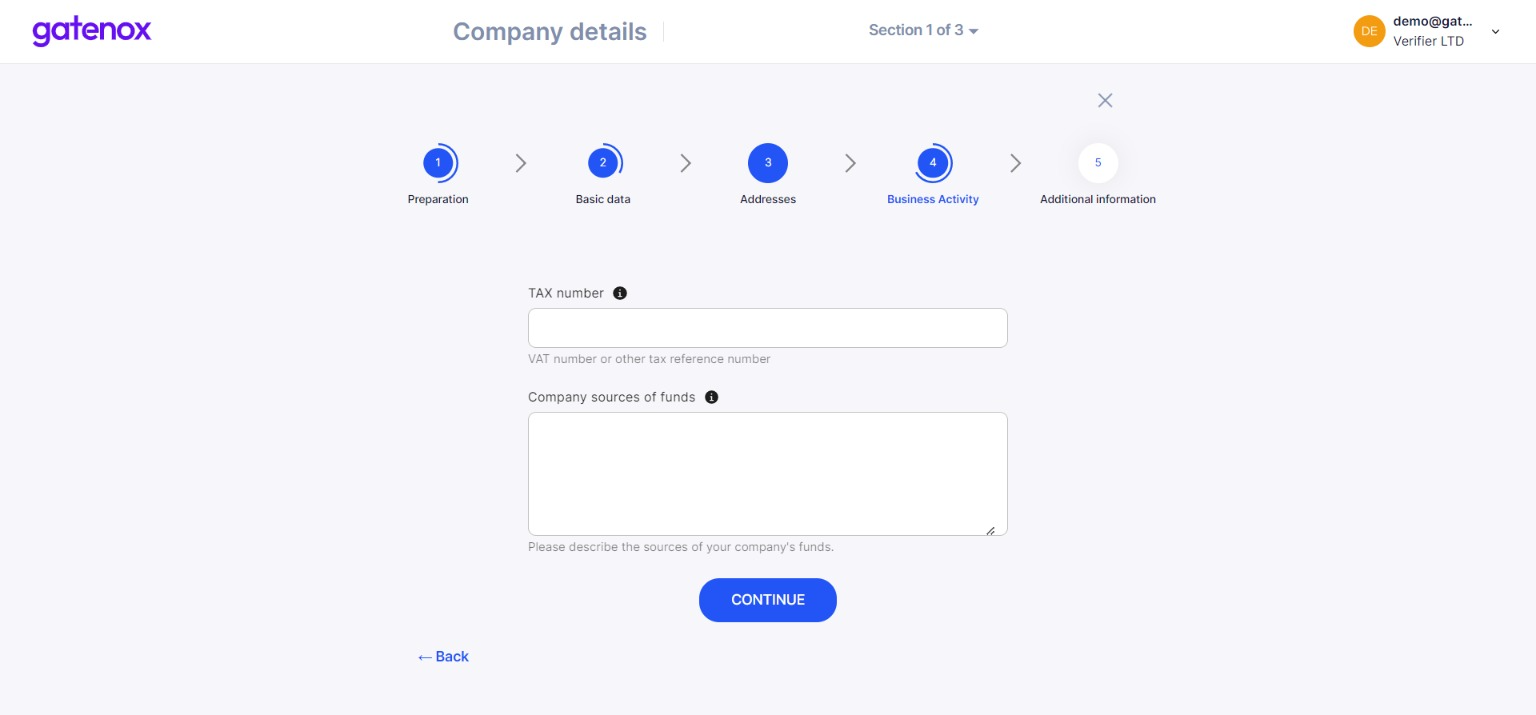
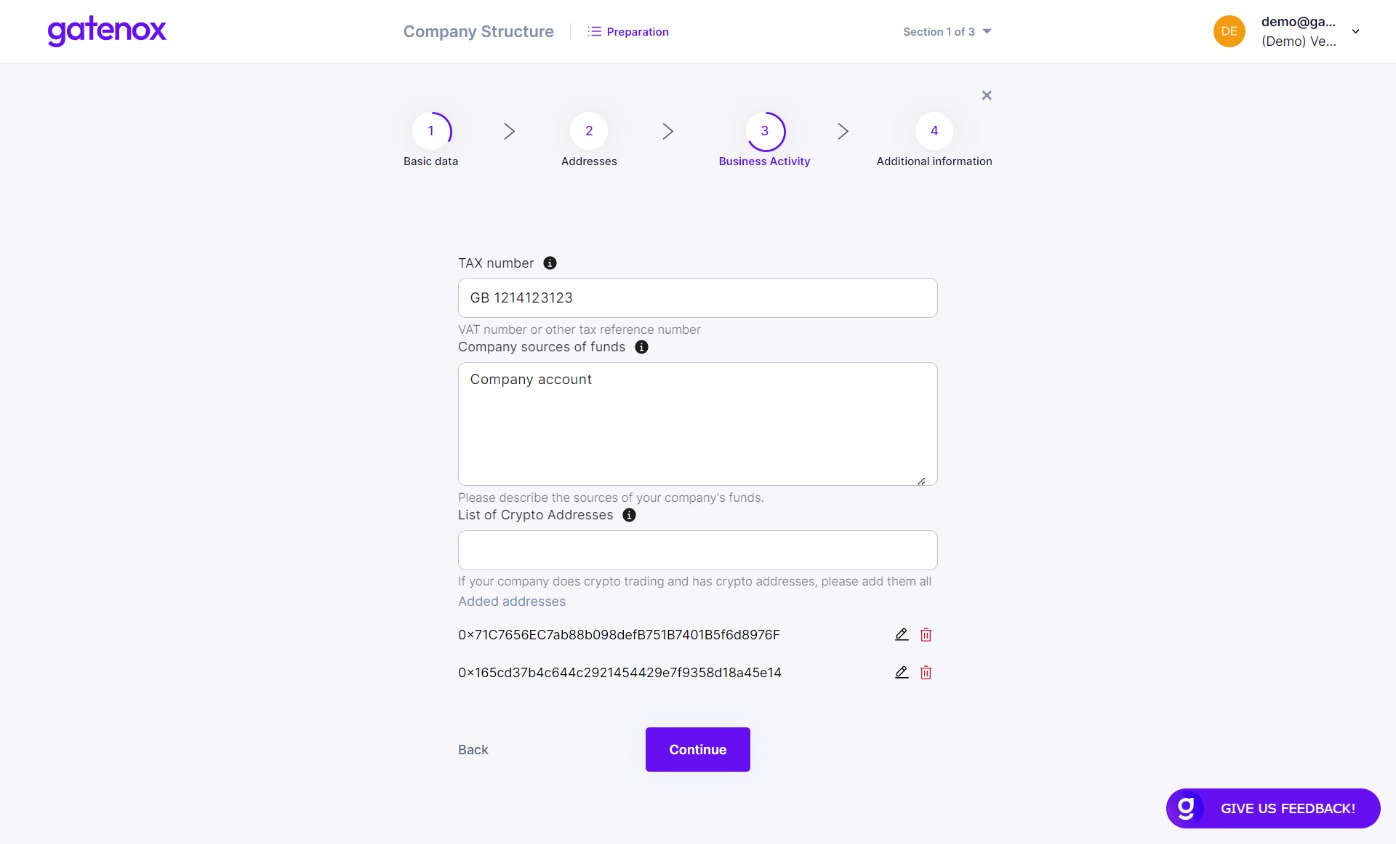
GitBook: [#66] Add crypto addresses

diff --git a/gatenox-guide/verifier-journey/review-details.md b/gatenox-guide/verifier-journey/review-details.md
@@ -15,15 +15,15 @@ Each application is divided into 6 main parts:
 
 Before the mentioned sections are displayed, a summary of any identified potential issues will appear at the top of the page e.g. presence of company entities or individuals on sanction, PEP or criminal lists in **a red section**.
 
-<figure><img src="../../docs/Images/review_issues.png" alt="Review - found issues"><figcaption><p>Review - found issues</p></figcaption></figure>
+<figure><img src="../../.gitbook/assets/review_issues.png" alt="Review - found issues"><figcaption><p>Review - found issues</p></figcaption></figure>
 
 If no potential issues are found, a green section will be displayed at the top of the page.
 
-<figure><img src="../../docs/Images/review_issues2.png" alt="Review - found issues"><figcaption><p>Review - no issues</p></figcaption></figure>
+<figure><img src="../../.gitbook/assets/review_issues2.png" alt="Review - found issues"><figcaption><p>Review - no issues</p></figcaption></figure>
 
 In addition, you can view the whole structure of the company in the form of a **fully interactive graph** (it is possible to open the graph in a new browser tab).
 
-<figure><img src="../../docs/Images/review_graph.png" alt="Review - company structure"><figcaption><p>Review - company structure</p></figcaption></figure>
+<figure><img src="../../.gitbook/assets/review_graph.png" alt="Review - company structure"><figcaption><p>Review - company structure</p></figcaption></figure>
 
 ## Company details
 
@@ -31,26 +31,26 @@ After having an overview of the company's structure, you can proceed to the proc
 
 **Company Details**
 
-<figure><img src="../../docs/Images/review_comp_detials.png" alt="Review - company details"><figcaption><p>Review - company details</p></figcaption></figure>
+<figure><img src="../../.gitbook/assets/review_comp_detials.png" alt="Review - company details"><figcaption><p>Review - company details</p></figcaption></figure>
 
 ## **Directors**
 
-<figure><img src="../../docs/Images/review_dir.png" alt="Review - directors"><figcaption><p>Review - directors</p></figcaption></figure>
+<figure><img src="../../.gitbook/assets/review_dir.png" alt="Review - directors"><figcaption><p>Review - directors</p></figcaption></figure>
 
 ## **UBOs**
 
-<figure><img src="../../docs/Images/review_UBO.png" alt="Review - UBOs"><figcaption><p>Review - UBOs</p></figcaption></figure>
+<figure><img src="../../.gitbook/assets/review_UBO.png" alt="Review - UBOs"><figcaption><p>Review - UBOs</p></figcaption></figure>
 
 ## **Company Structure**
 
 **Company Structure - tree view** (you can view the entire structure by expanding the selection - in this case, clicking the down arrow next to PETROPARS UK LIMITED)
 
-<figure><img src="../../docs/Images/review_cs.png" alt="Review - company structure (tree view)"><figcaption><p>Review - company structure (tree view)</p></figcaption></figure>
+<figure><img src="../../.gitbook/assets/review_cs.png" alt="Review - company structure (tree view)"><figcaption><p>Review - company structure (tree view)</p></figcaption></figure>
 
 ## **Identified issues**
 
-<figure><img src="../../docs/Images/review_ident_issues.png" alt="Review - identified issues"><figcaption><p>Review - identified issues</p></figcaption></figure>
+<figure><img src="../../.gitbook/assets/review_ident_issues.png" alt="Review - identified issues"><figcaption><p>Review - identified issues</p></figcaption></figure>
 
 ## **Assessment**
 
-<figure><img src="../../docs/Images/review_assesment.png" alt="Review - assessment"><figcaption><p>Review - assessment</p></figcaption></figure>
+<figure><img src="../../.gitbook/assets/review_assesment.png" alt="Review - assessment"><figcaption><p>Review - assessment</p></figcaption></figure>

diff --git a/gatenox-guide/user-journey/company-details.md b/gatenox-guide/user-journey/company-details.md
@@ -12,42 +12,42 @@ This part is divided into 5 main steps (some steps contain more than one screen)
 
 ## **Preparation**
 
-<figure><img src="../../docs/Images/preparation.png" alt="Company details - preparation"><figcaption><p>Company details - preparation</p></figcaption></figure>
+<figure><img src="../../.gitbook/assets/preparation.png" alt="Company details - preparation"><figcaption><p>Company details - preparation</p></figcaption></figure>
 
 ## **Basic Data**&#x20;
 
 Incorporation Details
 
-<figure><img src="../../docs/Images/basic_data.png" alt="Company details - basic data"><figcaption><p>Company details - basic data</p></figcaption></figure>
+<figure><img src="../../.gitbook/assets/basic_data.png" alt="Company details - basic data"><figcaption><p>Company details - basic data</p></figcaption></figure>
 
 **Proof of Incorporation Details** (upload each document with one click)
 
-<figure><img src="../../docs/Images/proof_of_incorp.png" alt="Company details - documents"><figcaption><p>Company details - documents</p></figcaption></figure>
+<figure><img src="../../.gitbook/assets/proof_of_incorp.png" alt="Company details - documents"><figcaption><p>Company details - documents</p></figcaption></figure>
 
 ## **Addresses**
 
 Registered Address
 
-<figure><img src="../../docs/Images/reg_address.png" alt="Company details - registration address"><figcaption><p>Company details - registration address</p></figcaption></figure>
+<figure><img src="../../.gitbook/assets/reg_address.png" alt="Company details - registration address"><figcaption><p>Company details - registration address</p></figcaption></figure>
 
 Office Address
 
-<figure><img src="../../docs/Images/office_addr.png" alt="Company details - office address"><figcaption><p>Company details - office address</p></figcaption></figure>
+<figure><img src="../../.gitbook/assets/office_addr.png" alt="Company details - office address"><figcaption><p>Company details - office address</p></figcaption></figure>
 
 **Proof of Office Address** (upload each document with one click)
 
-<figure><img src="../../docs/Images/proof_of_office_addr.png" alt="Company details - proof of office address"><figcaption><p>Company details - proof of office address</p></figcaption></figure>
+<figure><img src="../../.gitbook/assets/proof_of_office_addr.png" alt="Company details - proof of office address"><figcaption><p>Company details - proof of office address</p></figcaption></figure>
 
 ## **Business Activity**
 
 Description
 
-<figure><img src="../../docs/Images/business_act.png" alt="Company details - business activity"><figcaption><p>Company details - business activity</p></figcaption></figure>
+<figure><img src="../../.gitbook/assets/business_act.png" alt="Company details - business activity"><figcaption><p>Company details - business activity</p></figcaption></figure>
 
 Financials
 
-<figure><img src="../../docs/Images/finanscials.png" alt="Company details - business activity (financials)"><figcaption><p>Company details - business activity (financials)</p></figcaption></figure>
+<figure><img src="../../.gitbook/assets/finanscials.png" alt="Company details - business activity (financials)"><figcaption><p>Company details - business activity (financials)</p></figcaption></figure>
 
 ## **Additional Information**
 
-<figure><img src="../../docs/Images/add_info.png" alt="Company details - additional information"><figcaption><p>Company details - additional information</p></figcaption></figure>
+<figure><img src="../../.gitbook/assets/add_info.png" alt="Company details - additional information"><figcaption><p>Company details - additional information</p></figcaption></figure>

diff --git a/user-how-to/create-and-complete-company-profile/edit-company-details/company-addresses.md b/user-how-to/create-and-complete-company-profile/edit-company-details/company-addresses.md
@@ -2,7 +2,7 @@
 
 In case you need to correct your company addresses or add verification documents (proof of address), please navigate to the "Company profile" menu and click _Edit_ in the "Company Details" section. The "Preparation" screen will be displayed.
 
-<figure><img src="../../../.gitbook/assets/preparation.png" alt="Company details - preparation"><figcaption><p>Company details - preparation</p></figcaption></figure>
+<figure><img src="../../../docs/Images/preparation.png" alt="Company details - preparation"><figcaption><p>Company details - preparation</p></figcaption></figure>
 
 Now, you can navigate directly to addresses by clicking on the "Address" navigation element on the top of the screen.
 
@@ -10,7 +10,7 @@ Now, you can navigate directly to addresses by clicking on the "Address" navigat
 
 Here you can select an address from the existing list (downloaded from the company register or previously entered) or add new address manually, by clicking on "Add new address" link.&#x20;
 
-<figure><img src="../../../docs/Images/reg_address.png" alt="Registration address"><figcaption><p>Registration address</p></figcaption></figure>
+<figure><img src="../../../.gitbook/assets/reg_address.png" alt="Registration address"><figcaption><p>Registration address</p></figcaption></figure>
 
 After selecting your company address, click on the "Add office address" button to move to the next part.
 
@@ -18,7 +18,7 @@ After selecting your company address, click on the "Add office address" button t
 
 The process of choosing an office address is the same as for a registration address.&#x20;
 
-<figure><img src="../../../docs/Images/office_addr.png" alt="Office address"><figcaption><p>Office address</p></figcaption></figure>
+<figure><img src="../../../.gitbook/assets/office_addr.png" alt="Office address"><figcaption><p>Office address</p></figcaption></figure>
 
 The last step of completing this part of the company profile is to add a verification document, verifying your office address. Click on the "Verify address" button.
 

diff --git a/gatenox-guide/user-journey/create-new-company.md b/gatenox-guide/user-journey/create-new-company.md
@@ -2,7 +2,7 @@
 
 To create a new company profile you need to open the context menu in the upper right corner and click on the “Add company” link.
 
-<figure><img src="../../docs/Images/settings_manage.png" alt="Context menu - add new company"><figcaption><p>Context menu - add new company</p></figcaption></figure>
+<figure><img src="../../.gitbook/assets/settings_manage.png" alt="Context menu - add new company"><figcaption><p>Context menu - add new company</p></figcaption></figure>
 
 You will see an “Add new company” screen. In order to facilitate the process of creating a new company profile (entering selected data for you), you must specify exactly what company you mean by entering the jurisdiction and number.
 
@@ -10,8 +10,8 @@ You will see an “Add new company” screen. In order to facilitate the process
 
 Now you can use the “Find your company” button to search for the name of your company. The result will be displayed in the “Company name” field. If your company is not found, you can enter “Company name” manually and press the “Continue” button. In this case, we will not be able to facilitate the process for you.
 
-<figure><img src="../../docs/Images/company_add2.png" alt="Find your company"><figcaption><p>Find your company</p></figcaption></figure>
+<figure><img src="../../.gitbook/assets/company_add2.png" alt="Find your company"><figcaption><p>Find your company</p></figcaption></figure>
 
 Now you can press the “Continue” button to go through the company setup wizard. The “Company details” preparation screen will be displayed.
 
-<figure><img src="../../docs/Images/company_add4.png" alt="Company details - preparation"><figcaption><p>Company details - preparation</p></figcaption></figure>
+<figure><img src="../../.gitbook/assets/company_add4.png" alt="Company details - preparation"><figcaption><p>Company details - preparation</p></figcaption></figure>

diff --git a/user-how-to/create-and-complete-company-profile/add-edit-directors/list-of-directors.md b/user-how-to/create-and-complete-company-profile/add-edit-directors/list-of-directors.md
@@ -10,15 +10,15 @@ Press the "Continue" button to start reviewing your company list of directors.
 
 If your company has been found in the company register in the relevant country, the list of directors will be downloaded to facilitate the process and save your valuable time.
 
-<figure><img src="../../../docs/Images/dir_add.png" alt="List of directors"><figcaption><p>List of directors</p></figcaption></figure>
+<figure><img src="../../../.gitbook/assets/dir_add (1).png" alt="List of directors"><figcaption><p>List of directors</p></figcaption></figure>
 
 If downloaded data is not up-to-date or any other changes are required you can add, edit or delete a person from the list. When the list is ready, click on the "Continue" button to enter the director's details.&#x20;
 
-<figure><img src="../../../docs/Images/dir_personal.png" alt="Directors - details"><figcaption><p>Directors - details</p></figcaption></figure>
+<figure><img src="../../../.gitbook/assets/dir_personal (1).png" alt="Directors - details"><figcaption><p>Directors - details</p></figcaption></figure>
 
 Now, you can add position and date of birth for each of the directors. When you have completed all required information, click on the "Continue" button to provide proof of entered data.&#x20;
 
-<figure><img src="../../../docs/Images/dir_proof_list.png" alt="Proof of directors list"><figcaption><p>Proof of directors list</p></figcaption></figure>
+<figure><img src="../../../.gitbook/assets/dir_proof_list (1).png" alt="Proof of directors list"><figcaption><p>Proof of directors list</p></figcaption></figure>
 
 In this step you will be asked to provide a document verifying your list of directors. Depending on your company's country of residence and type, you can provide relevant documents to support this list. When you are ready, press "Continue" button to add the personal details (KYC) of your directors.
 

diff --git a/user-how-to/share-company-profile/complete-required-company-data.md b/user-how-to/share-company-profile/complete-required-company-data.md
@@ -2,7 +2,7 @@
 
 If your profile requires additional information requested by Gatenox Partner, the following information will be displayed on "Your company profile" screen.
 
-<figure><img src="../../.gitbook/assets/Current_onboarding_missing (1).png" alt="Current onboarding - missing data required by Partner"><figcaption><p>Current onboarding - missing data required by Partner</p></figcaption></figure>
+<figure><img src="../../.gitbook/assets/Current_onboarding_missing (3).png" alt="Current onboarding - missing data required by Partner"><figcaption><p>Current onboarding - missing data required by Partner</p></figcaption></figure>
 
 You will get information about the profile section, which needs to be completed. Click on the "Get started". You will be redirected to wizard, which will guide you through the company profile to enter required data.
 
@@ -10,7 +10,7 @@ You will get information about the profile section, which needs to be completed.
 
 On the screen below "Date of incorporation" and "Company type" are required, but "Brand name" is not required (requested by Partner), so you do not need to fill all fields, if you would like to quickly go through wizard and complete only required data.
 
-<figure><img src="../../docs/Images/basic_data.png" alt="Required data - how to find fields requested by Partner"><figcaption><p>Required data - how to find fields requested by Partner</p></figcaption></figure>
+<figure><img src="../../.gitbook/assets/basic_data.png" alt="Required data - how to find fields requested by Partner"><figcaption><p>Required data - how to find fields requested by Partner</p></figcaption></figure>
 
 Nevertheless, we encourage you to enter all the data to save your time in the future - these may be data required by other Gatenox Partners and in this case you will not have to go back to completing the company profile.
 

diff --git a/user-how-to/create-and-complete-company-profile/add-new-company.md b/user-how-to/create-and-complete-company-profile/add-new-company.md
@@ -2,7 +2,7 @@
 
 To create a new company profile you need to open the context menu in the upper right corner and click on the “Add company” link.
 
-<figure><img src="../../docs/Images/settings_manage.png" alt="Contexts menu"><figcaption><p>Contexts menu</p></figcaption></figure>
+<figure><img src="../../.gitbook/assets/settings_manage.png" alt="Contexts menu"><figcaption><p>Contexts menu</p></figcaption></figure>
 
 You will see the “Add new company” screen. In order to facilitate the process of creating a new company profile (entering selected data for you), you must enter the jurisdiction and company registration number.
 
@@ -14,8 +14,8 @@ First, enter your company's jurisdiction and registration number. Now you can us
 
 The result will be displayed in the “Company name” field. If your company is not found, you can enter “Company name” manually and press the “Continue” button. In this case, you will have to enter all the data manually.
 
-<figure><img src="../../docs/Images/company_add3.png" alt="Find your company - check results"><figcaption><p>Find your company - check results</p></figcaption></figure>
+<figure><img src="../../.gitbook/assets/company_add3.png" alt="Find your company - check results"><figcaption><p>Find your company - check results</p></figcaption></figure>
 
 Now you can press the “Continue” button to go through the company setup wizard. The “Company details” preparation screen will be displayed.
 
-<figure><img src="../../docs/Images/company_add4.png" alt="Company details - preparation"><figcaption><p>Company details - preparation</p></figcaption></figure>
+<figure><img src="../../.gitbook/assets/company_add4.png" alt="Company details - preparation"><figcaption><p>Company details - preparation</p></figcaption></figure>

diff --git a/user-how-to/create-and-complete-company-profile/edit-company-details/business-description.md b/user-how-to/create-and-complete-company-profile/edit-company-details/business-description.md
@@ -2,7 +2,7 @@
 
 In case you need to add a business description to your profile, please navigate to the "Company profile" menu and click _Edit_ in the "Company Details" section. The "Preparation" screen will be displayed.
 
-<figure><img src="../../../.gitbook/assets/preparation.png" alt="Company details - preparation"><figcaption><p>Company details - preparation</p></figcaption></figure>
+<figure><img src="../../../docs/Images/preparation.png" alt="Company details - preparation"><figcaption><p>Company details - preparation</p></figcaption></figure>
 
 Now, you can navigate directly to the business description section by clicking on the "Business activity" navigation element on the top of the screen.
 
@@ -18,6 +18,10 @@ To move to the next part (financial information) click on the "Continue" button.
 
 Here you will be able to add the TAX number and provide information about your company sources of funds.&#x20;
 
-<figure><img src="../../../.gitbook/assets/business_activity_financials.png" alt="Business activities - financials"><figcaption><p>Business activities - financials</p></figcaption></figure>
+<figure><img src="../../../.gitbook/assets/business_activity_financials (1).png" alt=""><figcaption><p>Business activities - financials</p></figcaption></figure>
+
+On this screen your are also able to provide your company crypto addresses, by simply pasting it into "List of crypto addresses" field and click on "Apply" button.
+
+<figure><img src="../../../.gitbook/assets/business_activity_financials.png" alt=""><figcaption></figcaption></figure>
 
 Now you can move to next step and add more information to your profile in "Additional information" section. If you were only modifying part of your data, you can click on "X" button to go back to "Your company profile" screen.

diff --git a/examples/exampledata.md b/examples/exampledata.md
@@ -23,13 +23,13 @@ Here you can find a description of sample data that has been provided to user an
     <figure><img src="../.gitbook/assets/directors.png" alt=""><figcaption></figcaption></figure>
 5.  In the section below, you can view all of your Company's Documents that you have previously added.
 
-    <figure><img src="../.gitbook/assets/documents.png" alt=""><figcaption></figcaption></figure>
+    <figure><img src="../.gitbook/assets/documents (1).png" alt=""><figcaption></figcaption></figure>
 6.  Click _Edit_ to modify your Company UBOs. For now, you have only one UBO (Joe Allen). For each of your UBOs, you can provide all required data, in particular, KYC data. Adding UBOs is done in the Company Structure section, but here (by clicking Edit) you can go straight to the appropriate place in the form.
 
     <figure><img src="../.gitbook/assets/UBOs.png" alt=""><figcaption></figcaption></figure>
 7.  Click _Edit_ to modify your Company Structure. The company's structure includes the mentioned UBOs as well as Individual and Corporate Shareholders. By adding individual entities to the structure, a graph is dynamically generated to illustrate the connections between the various entities. Below you can see a simple structure consisting of only two shareholders.
 
-    <figure><img src="../.gitbook/assets/company_structure (2).png" alt=""><figcaption></figcaption></figure>
+    <figure><img src="../.gitbook/assets/company_structure (1).png" alt=""><figcaption></figcaption></figure>
 8. On the right, you can see two panels. \*\*Message Panel \*\*_\*\*\*\*_ is where messages from the Compliance Officer who is reviewing your application will appear.
 
 <figure><img src="../.gitbook/assets/message_panel.png" alt=""><figcaption></figcaption></figure>

diff --git a/user-how-to/create-and-complete-company-profile/add-edit-directors/directors-verification.md b/user-how-to/create-and-complete-company-profile/add-edit-directors/directors-verification.md
@@ -12,11 +12,11 @@ You can navigate directly to the "Directors verification" screen by clicking on 
 
 On the left side of the screen you will see a list of directors prepared on previous steps. You can switch between their names. If the director name is followed by a green "OK" icon then all required information has been provided. Click on the "Continue" button after completing all required information to move to the next step.
 
-<figure><img src="../../../docs/Images/dir_personal2.png" alt="Directors - personal data"><figcaption><p>Directors - personal data</p></figcaption></figure>
+<figure><img src="../../../.gitbook/assets/dir_personal2 (1).png" alt="Directors - personal data"><figcaption><p>Directors - personal data</p></figcaption></figure>
 
 Now you can provide the director's residential address - pick one from the list or enter a new one manually. Click on the "Continue" button after completing all required information to move to the next step.&#x20;
 
-<figure><img src="../../../docs/Images/dir_address.png" alt="Directors - residential address"><figcaption><p>Directors - residential address</p></figcaption></figure>
+<figure><img src="../../../.gitbook/assets/dir_address (1).png" alt="Directors - residential address"><figcaption><p>Directors - residential address</p></figcaption></figure>
 
 In this step you are asked to provide the director's identity document. Pick one of the following identity document types: passport, national ID card or driving license. After choosing the type, enter documents data (country of issue / citizenship, number, issue and expiry date) and upload document photo.
 

diff --git a/user-how-to/create-and-complete-company-profile/edit-company-details/basic-data.md b/user-how-to/create-and-complete-company-profile/edit-company-details/basic-data.md
@@ -4,7 +4,7 @@ Your company registration data may change over time.
 
 In case you need to correct your company registration details, please navigate to the "Company profile" menu and click _Edit_ in the "Company Details" section. The "Preparation" screen will be displayed.
 
-<figure><img src="../../../docs/Images/preparation.png" alt="Company details - preparation"><figcaption><p>Company details - preparation</p></figcaption></figure>
+<figure><img src="../../../.gitbook/assets/preparation.png" alt="Company details - preparation"><figcaption><p>Company details - preparation</p></figcaption></figure>
 
 Click on the "Basic data" in the navigation menu to start editing your company's basic data.
 
@@ -12,7 +12,7 @@ Click on the "Basic data" in the navigation menu to start editing your company's
 
 Here, you can edit your company registration data.
 
-<figure><img src="../../../docs/Images/basic_data.png" alt="Company basic data - registration info"><figcaption><p>Company basic data - registration info</p></figcaption></figure>
+<figure><img src="../../../.gitbook/assets/basic_data.png" alt="Company basic data - registration info"><figcaption><p>Company basic data - registration info</p></figcaption></figure>
 
 After clicking on "Verify incorporation details" you will be moved to part of the process where you can add a list of documents confirming your registration data.
 

diff --git a/verifier-how-to/start-onboarding-customers-with-gatenox/about-your-company.md b/verifier-how-to/start-onboarding-customers-with-gatenox/about-your-company.md
@@ -4,7 +4,7 @@
 
 Your logo is your visual identity. We will use your logo throughout the Gatenox Platform. You can add the logo in the "Settings" menu, under the "Company information" tab.
 
-<figure><img src="../../docs/Images/settings_company.png" alt="Settings - company information"><figcaption><p>Settings - company information</p></figcaption></figure>
+<figure><img src="../../.gitbook/assets/settings_company.png" alt="Settings - company information"><figcaption><p>Settings - company information</p></figcaption></figure>
 
 ### Describe your services
 
@@ -14,4 +14,4 @@ Your services description will be used in invitation emails sent via Gatenox to 
 
 Your webpage address will be used in invitation emails send via Gatenox to your customers. We treat this data as a part of your corporate profile, that is why you can add it in "Company profile" menu, by editing "Company details". Please navigate to "Additional information" and fill "Company website" field.
 
-<figure><img src="../../docs/Images/add_info.png" alt="Company details - additional information"><figcaption><p>Company details - additional information</p></figcaption></figure>
+<figure><img src="../../.gitbook/assets/add_info.png" alt="Company details - additional information"><figcaption><p>Company details - additional information</p></figcaption></figure>
